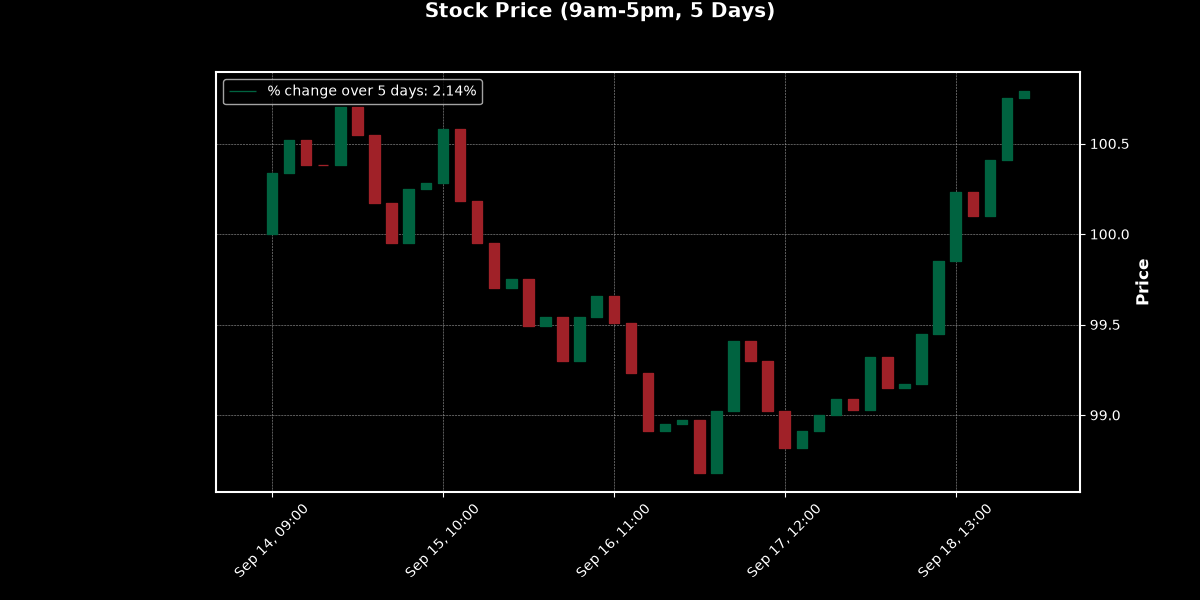
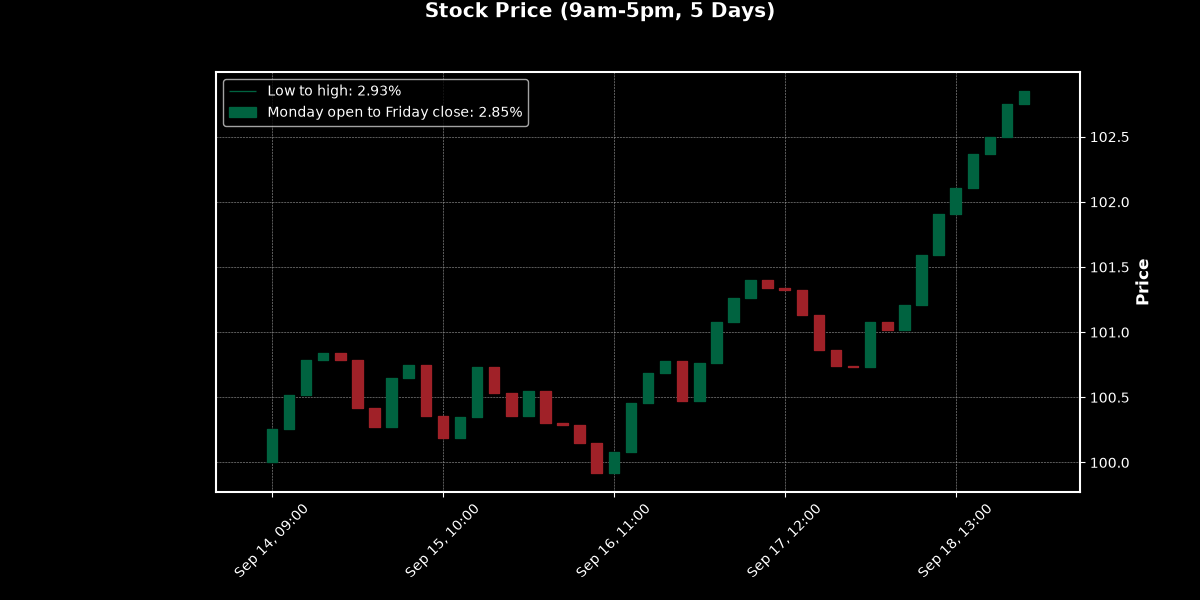
???

diff --git a/maths&stats/price_modeling.py b/maths&stats/price_modeling.py
@@ -40,8 +40,8 @@ if vol_index >= 100 or vol_index < 0:
 for idx, ts in enumerate(all_timestamps):
     open_price = prev_close
     close_price = open_price + (6/15)*(rand.uniform(-vol_index,vol_index))
-    high = max(open_price, close_price) * rand.uniform(1, 1+log(vol_index,1.000921458)/100000000)
-    low = min(open_price, close_price)  * rand.uniform(1-log(vol_index,1.000921458)/200000, 1)
+    high = max(open_price, close_price) * rand.uniform(1, 1+log(vol_index,1.000921458)/1000000000000)
+    low = min(open_price, close_price)  * rand.uniform(1-log(vol_index,1.000921458)/10000000000, 1)
     #if low < (0.8*prev_close):
     #    low = (0.8*prev_close)
     #if high > (1.4*prev_close):
